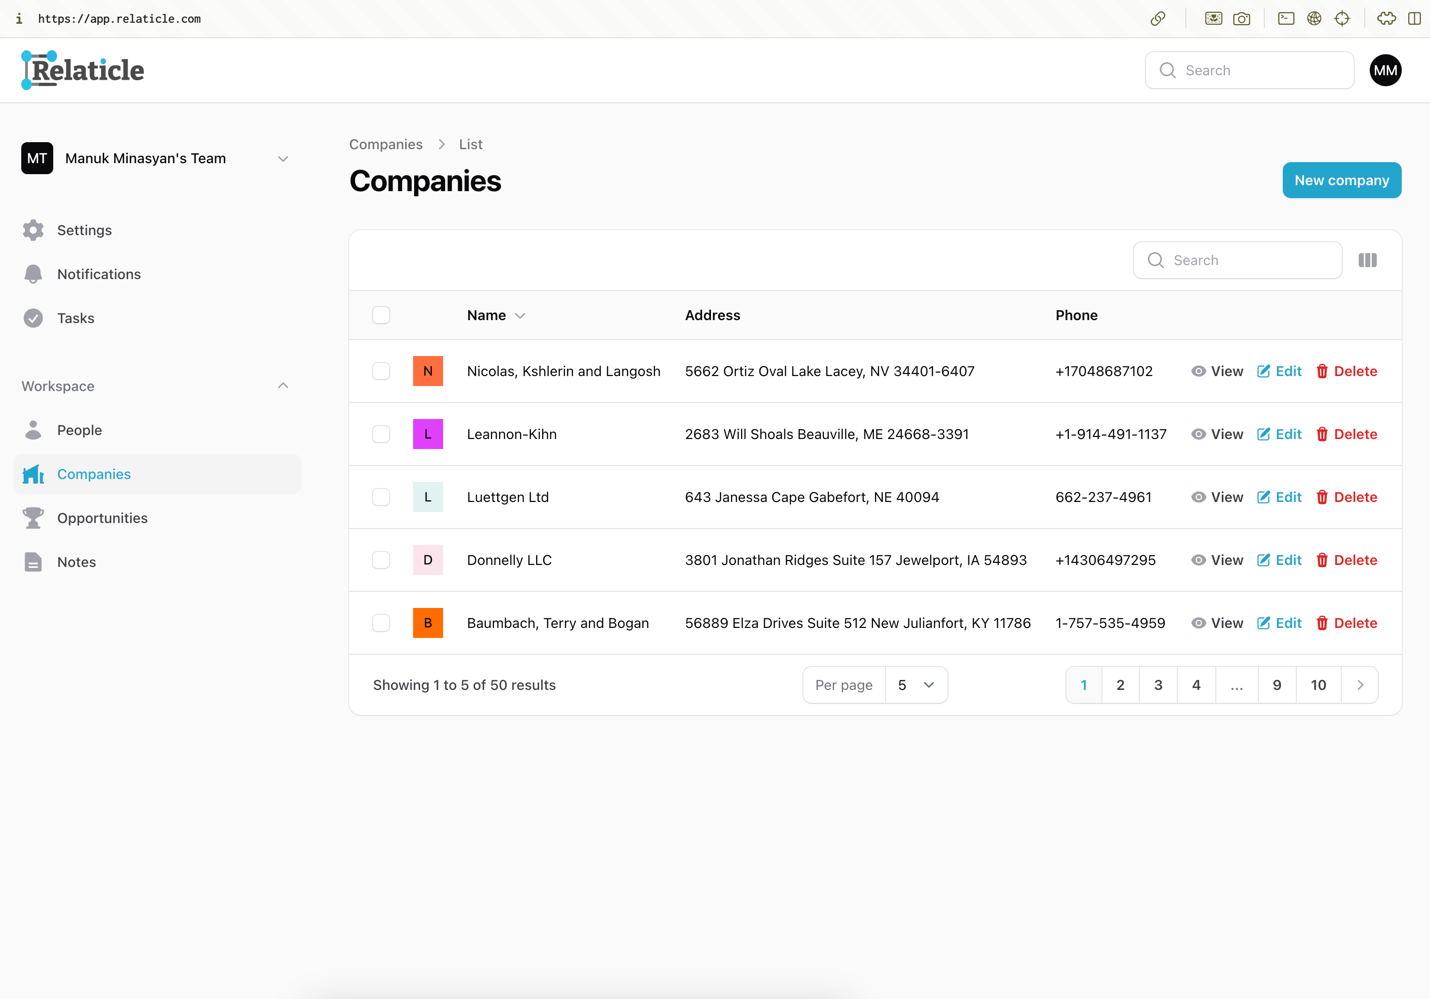
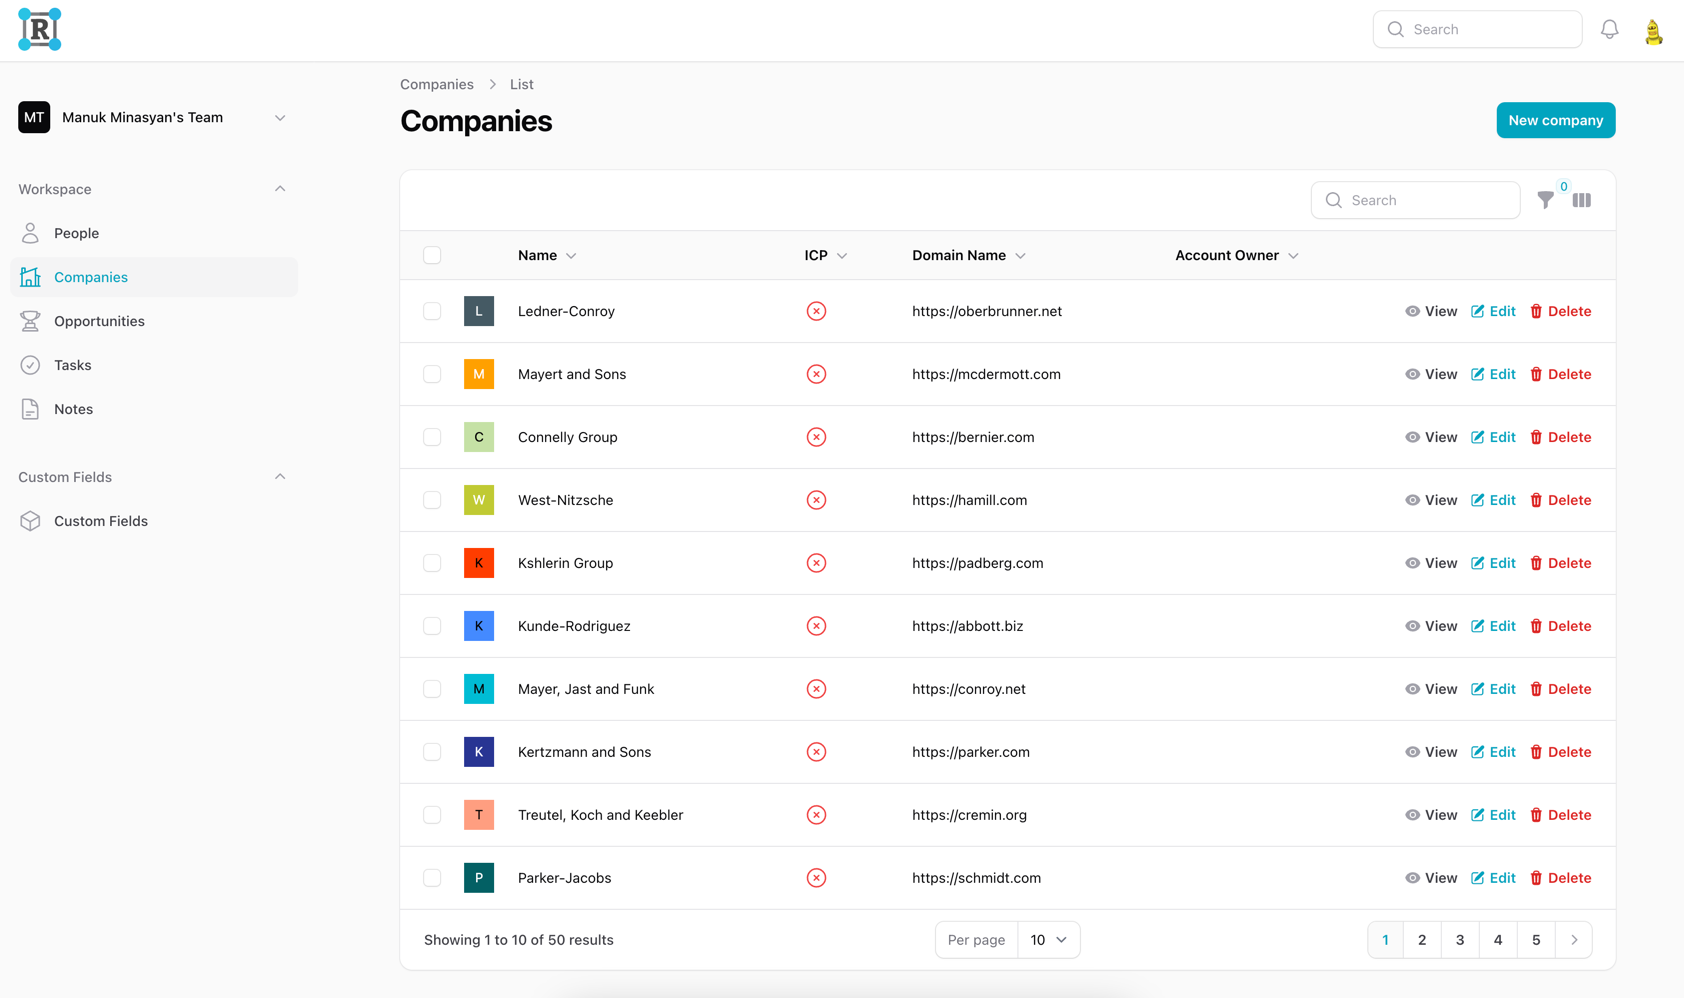
Enhance LocalSeeder to set user and tenant, and save custom field values for companies

diff --git a/database/seeders/LocalSeeder.php b/database/seeders/LocalSeeder.php
@@ -8,7 +8,10 @@ use App\Models\Company;
 use App\Models\Opportunity;
 use App\Models\People;
 use App\Models\User;
+use Filament\Facades\Filament;
 use Illuminate\Database\Seeder;
+use Illuminate\Support\Facades\Auth;
+use Repwise\CustomFields\Models\CustomField;
 
 final class LocalSeeder extends Seeder
 {
@@ -21,9 +24,24 @@ final class LocalSeeder extends Seeder
                 'email' => 'manuk.minasyan1@gmail.com',
             ]);
 
+        // Set the current user and tenant.
+        Auth::setUser($user);
+        Filament::setTenant($user->personalTeam());
+
+        // Create people.
         People::factory()->for($user->personalTeam(), 'team')->count(500)->create();
 
-        Company::factory()->for($user->personalTeam(), 'team')->count(50)->create();
+        $customFieldDomainName = CustomField::query()
+            ->where('code', 'domain_name')
+            ->first();
+
+        Company::factory()
+            ->for($user->personalTeam(), 'team')
+            ->count(50)
+            ->afterCreating(function (Company $company) use ($customFieldDomainName) {
+                $company->saveCustomFieldValue($customFieldDomainName, 'https://' . fake()->domainName());
+            })
+            ->create();
 
         Opportunity::factory()->for($user->personalTeam(), 'team')->count(100)->create();
     }

diff --git a/resources/views/welcome.blade.php b/resources/views/welcome.blade.php
@@ -21,7 +21,7 @@
             <!-- App Preview Image with Animation -->
             <div class="mt-12 flex justify-center">
                 <img src="{{ asset('images/app-preview.png') }}" alt="App Preview"
-                     class="w-full border-2 shadow-2xl rounded max-w-3xl">
+                     class="w-full border-2 shadow-2xl rounded max-w-4xl">
             </div>
         </div>
     </section>
